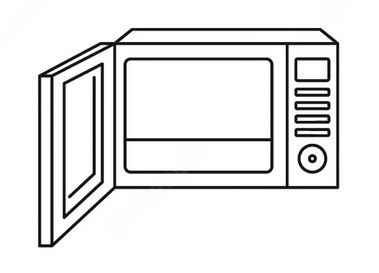
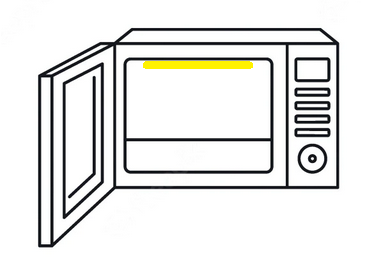
GUI door images updated

Changed region(s): [[0.3773, 0.2051, 0.6675, 0.2637]]

diff --git a/src/main/java/GUI/Control_panel.java b/src/main/java/GUI/Control_panel.java
@@ -26,6 +26,7 @@ public class Control_panel extends JFrame
 {
 	private JTextField textField;
 	protected Microwave mw = new Microwave();
+	private boolean changed = false;
 	
 	public Control_panel()
 	{
@@ -46,7 +47,7 @@ public class Control_panel extends JFrame
 			}
 		});
 		btnPowerIncr.setFocusable(false);
-		btnPowerIncr.setBounds(179, 162, 132, 23);
+		btnPowerIncr.setBounds(179, 78, 132, 23);
 		getContentPane().add(btnPowerIncr);
 		
 		JButton btnPowerDecr = new JButton("Power Decrement");
@@ -59,7 +60,7 @@ public class Control_panel extends JFrame
 			}
 		});
 		btnPowerDecr.setFocusable(false);
-		btnPowerDecr.setBounds(10, 162, 142, 23);
+		btnPowerDecr.setBounds(10, 78, 142, 23);
 		getContentPane().add(btnPowerDecr);
 		
 		JButton btnTimerIcrm = new JButton("Timer Increment");
@@ -72,7 +73,7 @@ public class Control_panel extends JFrame
 			}
 		});
 		btnTimerIcrm.setFocusable(false);
-		btnTimerIcrm.setBounds(179, 208, 132, 23);
+		btnTimerIcrm.setBounds(179, 159, 132, 23);
 		getContentPane().add(btnTimerIcrm);
 		
 		JButton btnTimerDecr = new JButton("Timer Decrement");
@@ -85,7 +86,7 @@ public class Control_panel extends JFrame
 			}
 		});
 		btnTimerDecr.setFocusable(false);
-		btnTimerDecr.setBounds(10, 208, 142, 23);
+		btnTimerDecr.setBounds(10, 159, 142, 23);
 		getContentPane().add(btnTimerDecr);
 		
 		textField = new JTextField();
@@ -93,6 +94,69 @@ public class Control_panel extends JFrame
 		textField.setBounds(10, 26, 301, 41);
 		getContentPane().add(textField);
 		textField.setColumns(10);
+		
+		JButton btnPowerReset = new JButton("Reset Power");
+		btnPowerReset.setFocusable(false);
+		btnPowerReset.addActionListener(new ActionListener()
+		{
+			public void actionPerformed(ActionEvent e)
+			{
+				mw.power_reset();
+				textField.setText(mw.getDisplayComponent().getDisplay());
+			}
+		});
+		btnPowerReset.setBounds(89, 112, 151, 23);
+		getContentPane().add(btnPowerReset);
+		
+		JButton btnResetTimer = new JButton("Reset Timer");
+		btnResetTimer.setFocusable(false);
+		btnResetTimer.addActionListener(new ActionListener()
+		{
+			public void actionPerformed(ActionEvent e)
+			{
+				mw.timer_reset();
+				textField.setText(mw.getDisplayComponent().getDisplay());
+			}
+		});
+		btnResetTimer.setBounds(89, 193, 151, 23);
+		getContentPane().add(btnResetTimer);
+		
+		JButton btnStartStop = new JButton("Start-Stop Microwave");
+		btnStartStop.setFocusable(false);
+		btnStartStop.addActionListener(new ActionListener()
+		{
+			public void actionPerformed(ActionEvent e)
+			{
+				if(mw.getState().getClass().equals(MW_ClosedWithItem.class))
+				{				
+					try
+					{
+						mw.cooking_start();
+						changed = true;
+					}
+					catch(Exception ex)
+					{
+						
+					}
+				}
+				if(mw.getState().getClass().equals(MW_Cooking.class) && !changed)
+				{
+					try
+					{
+						mw.cooking_stop();
+					}
+					catch(Exception ex)
+					{
+						
+					}
+				}
+				changed = false;
+				
+			}
+		});
+		btnStartStop.setBackground(new Color(255, 99, 71));
+		btnStartStop.setBounds(79, 252, 161, 23);
+		getContentPane().add(btnStartStop);
 		
 		Door D = new Door(mw);
     	D.setVisible(true);

diff --git a/src/main/java/GUI/Door.java b/src/main/java/GUI/Door.java
@@ -10,9 +10,9 @@ import javax.swing.ImageIcon;
 import javax.swing.JFrame;
 import javax.swing.JPanel;
 
-import GUI.Clock.Momento;
 import microwave.MW_ClosedWithItem;
 import microwave.MW_ClosedWithNoItem;
+import microwave.MW_Cooking;
 import microwave.MW_OpenWithItem;
 import microwave.MW_OpenWithNoItem;
 import microwave.Microwave;
@@ -44,8 +44,6 @@ public class Door extends JFrame /*La clase principal es una ventana (JFrame)*/
 		
 		this.setContentPane(new Panel());
 		getContentPane().setLayout(null);
-		
-		btnImage.setEnabled(false);
 		JButton btnOpenClose = new JButton("Open - Close");
 		
 		btnOpenClose.addActionListener(new ActionListener()
@@ -129,6 +127,7 @@ public class Door extends JFrame /*La clase principal es una ventana (JFrame)*/
 				
 				try
 				{
+//					System.out.println(mw.getState());
 					if(mw.getState().getClass().equals(MW_ClosedWithNoItem.class))
 					{
 							ImageIcon icon2 =new ImageIcon(getClass().getResource("/imgs/Backround1.png"));
@@ -150,6 +149,12 @@ public class Door extends JFrame /*La clase principal es una ventana (JFrame)*/
 					if(mw.getState().getClass().equals(MW_ClosedWithItem.class))
 					{
 							ImageIcon icon2 =new ImageIcon(getClass().getResource("/imgs/Backround4.png"));
+							btnImage.setIcon(icon2);
+//							System.out.println(mw.getState());
+					}
+					if(mw.getState().getClass().equals(MW_Cooking.class))
+					{
+							ImageIcon icon2 =new ImageIcon(getClass().getResource("/imgs/Backround5.png"));
 							btnImage.setIcon(icon2);
 //							System.out.println(mw.getState());
 					}

diff --git a/src/main/java/microwave/Microwave.java b/src/main/java/microwave/Microwave.java
@@ -51,6 +51,7 @@ public class Microwave
 	public void power_reset()
 	{
 		state.power_reset(this);
+		displayComponent.setDisplay("0");
 	}
 	
 	public void timer_inc()
@@ -66,7 +67,7 @@ public class Microwave
 	public void timer_reset()
 	{
 		state.timer_reset(this);
-		displayComponent.setDisplay(Integer.toString(timer));
+		displayComponent.setDisplay("0");
 	}
 	
 	
